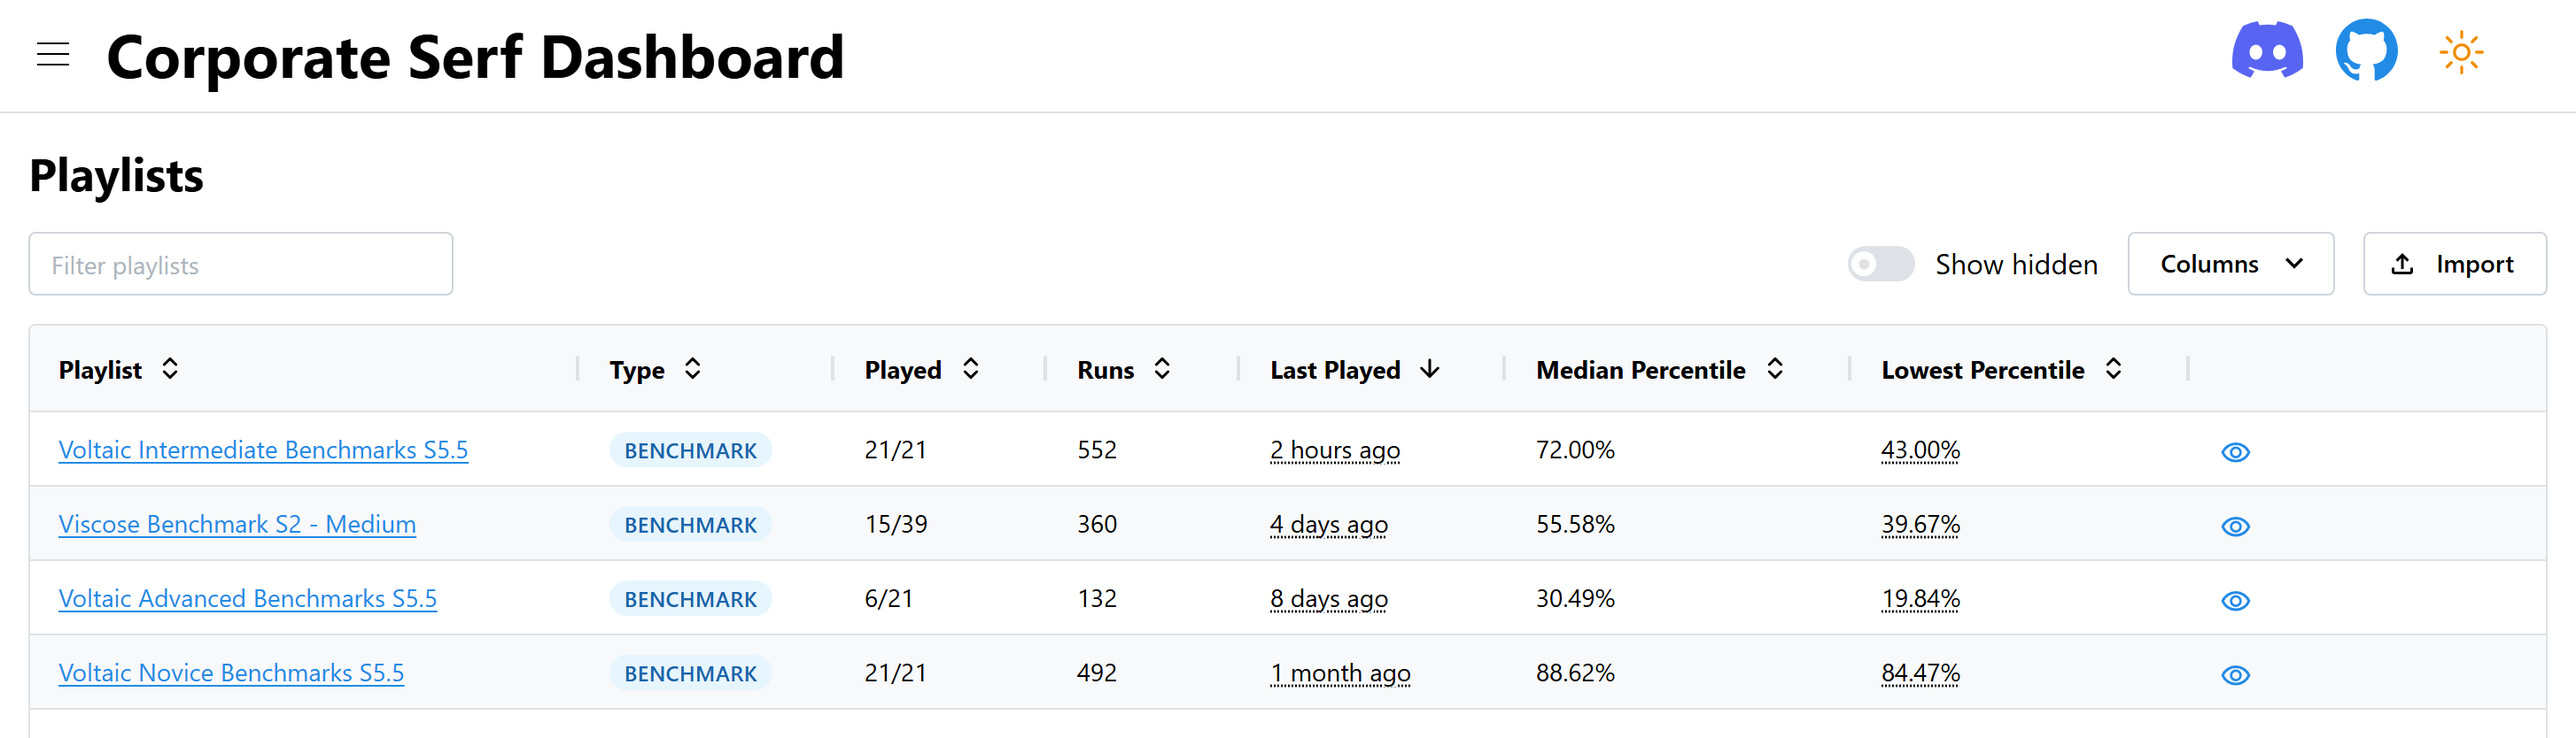
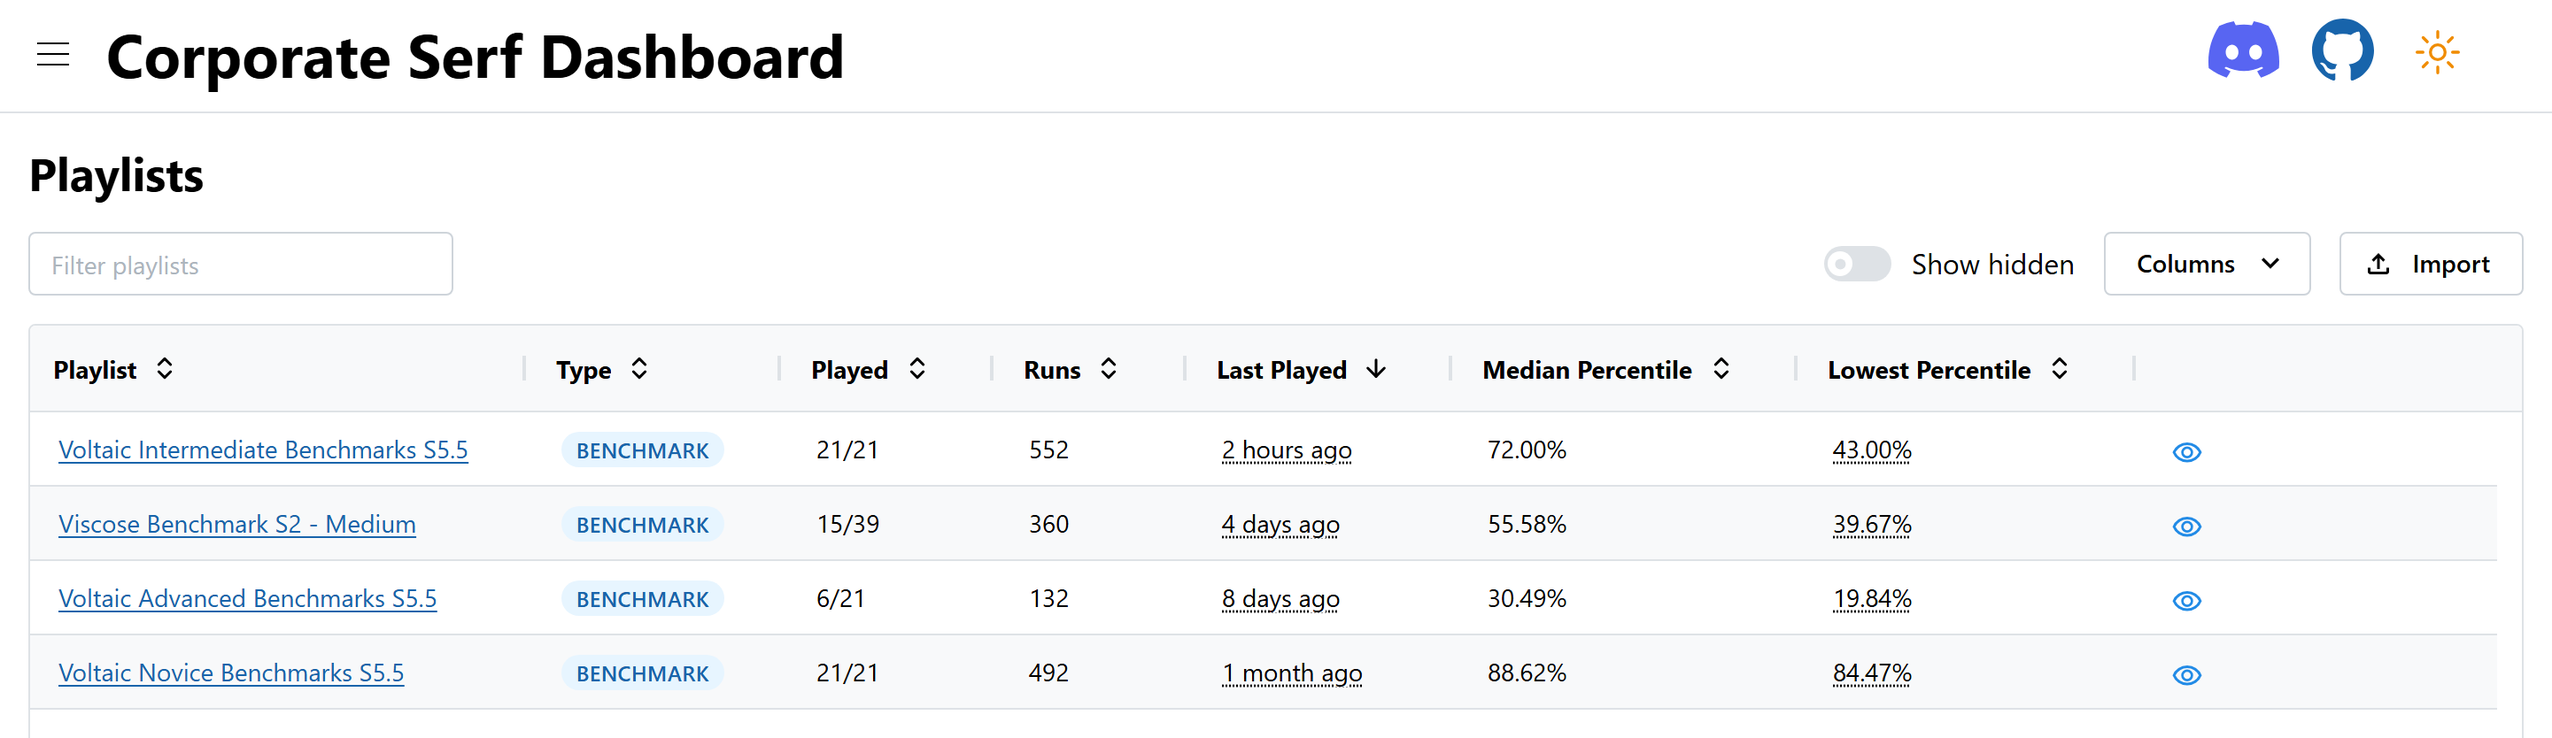
fix: settle screenshot framing on the current app layout

diff --git a/scripts/capture_screenshots.py b/scripts/capture_screenshots.py
@@ -301,6 +301,23 @@ def save_stable_screenshot(page, destination: Path, **options) -> None:
 
 def fit_table_columns(page, grid: str) -> int:
     """Fit every displayed column with navigation collapsed, without horizontal scrolling."""
+    # Cached cells can arrive after the first rows. Use normal header
+    # auto-sizing once they're ready so startup widths don't widen the image.
+    page.evaluate("document.fonts.ready")
+    page.wait_for_function(
+        """async grid => {
+        const api = await window.dash_ag_grid.getApiAsync(grid);
+        const rows = [];
+        api.forEachNode(node => rows.push(node.data));
+        return rows.length && rows.every(row => grid === 'playlists-overview-grid'
+            ? row.percentile_aggregates_resolved
+            : !row.position_pending && !row.total_pending && !row.percentile_pending);
+    }""",
+        arg=grid,
+    )
+    for handle in page.locator(f"#{grid} .ag-header-cell-resize").all():
+        if handle.is_visible():
+            handle.dblclick()
     column_width = page.evaluate(
         """async grid => {
         const api = await window.dash_ag_grid.getApiAsync(grid);
@@ -391,6 +408,14 @@ def capture(origin: str, destination: Path) -> None:
         page.get_by_role("button", name="Chart options", exact=True).click()
         page.locator("#run-history-rank-overlay-switch").uncheck()
         page.get_by_role("button", name="Chart options", exact=True).click()
+        # Plotly can retain the inspector's narrower canvas after it closes.
+        # A normal viewport resize retriggers its responsive layout.
+        for width in (1919, 1920):
+            page.set_viewport_size({"width": width, "height": 1080})
+            page.wait_for_function("""() => {
+                const graph = document.querySelector('#run-history-graph .js-plotly-plot');
+                return Math.abs(graph._fullLayout.width - graph.getBoundingClientRect().width) < 2;
+            }""")
         page.wait_for_function("""() => {
             const graph = document.querySelector('#run-history-graph .js-plotly-plot');
             const typical = graph?.data?.filter(trace => trace.name === 'Typical score') || [];

diff --git a/docs/screenshots/README.md b/docs/screenshots/README.md
@@ -108,8 +108,9 @@ S5 at 1920 by 1080 in Score vs Run with All runs selected. Its sample history
 includes long breaks, so the Typical score line and bands visibly change
 between full-strength and faded support.
 
-For both table screenshots, the capture tool collapses the left navigation and
-measures the total width of every displayed column. It expands the viewport to
+For both table screenshots, the capture tool collapses the left navigation,
+waits for every cached row and the fonts, then auto-sizes columns through the
+normal header controls. It measures the total width of every displayed column. It expands the viewport to
 at least that width plus the page padding, and checks that the table has no
 horizontal overflow. This includes new default columns added by later changes.
 Table images are cropped to their headings, headers and all sample rows.
@@ -117,8 +118,10 @@ The viewport grows vertically to include the selected benchmark whole.
 
 The script ignores the first load's known Dash Pages race, then attaches error
 listeners before reloading so failures during the clean reload are captured.
-It waits for the chart, note, grid and leaderboard callbacks, then waits for
-two matching frames with animations disabled before saving each screenshot.
+After closing Chart options, it resizes the viewport and checks that Plotly's
+canvas fills its container. It waits for the chart, note, grid and leaderboard
+callbacks, then waits for two matching frames with animations disabled before
+saving each screenshot.
 It fails on subsequent browser exceptions, HTTP errors, or attempted outbound
 requests. All three captures must succeed before any
 checked-in image is replaced, and the temporary server and state are removed
